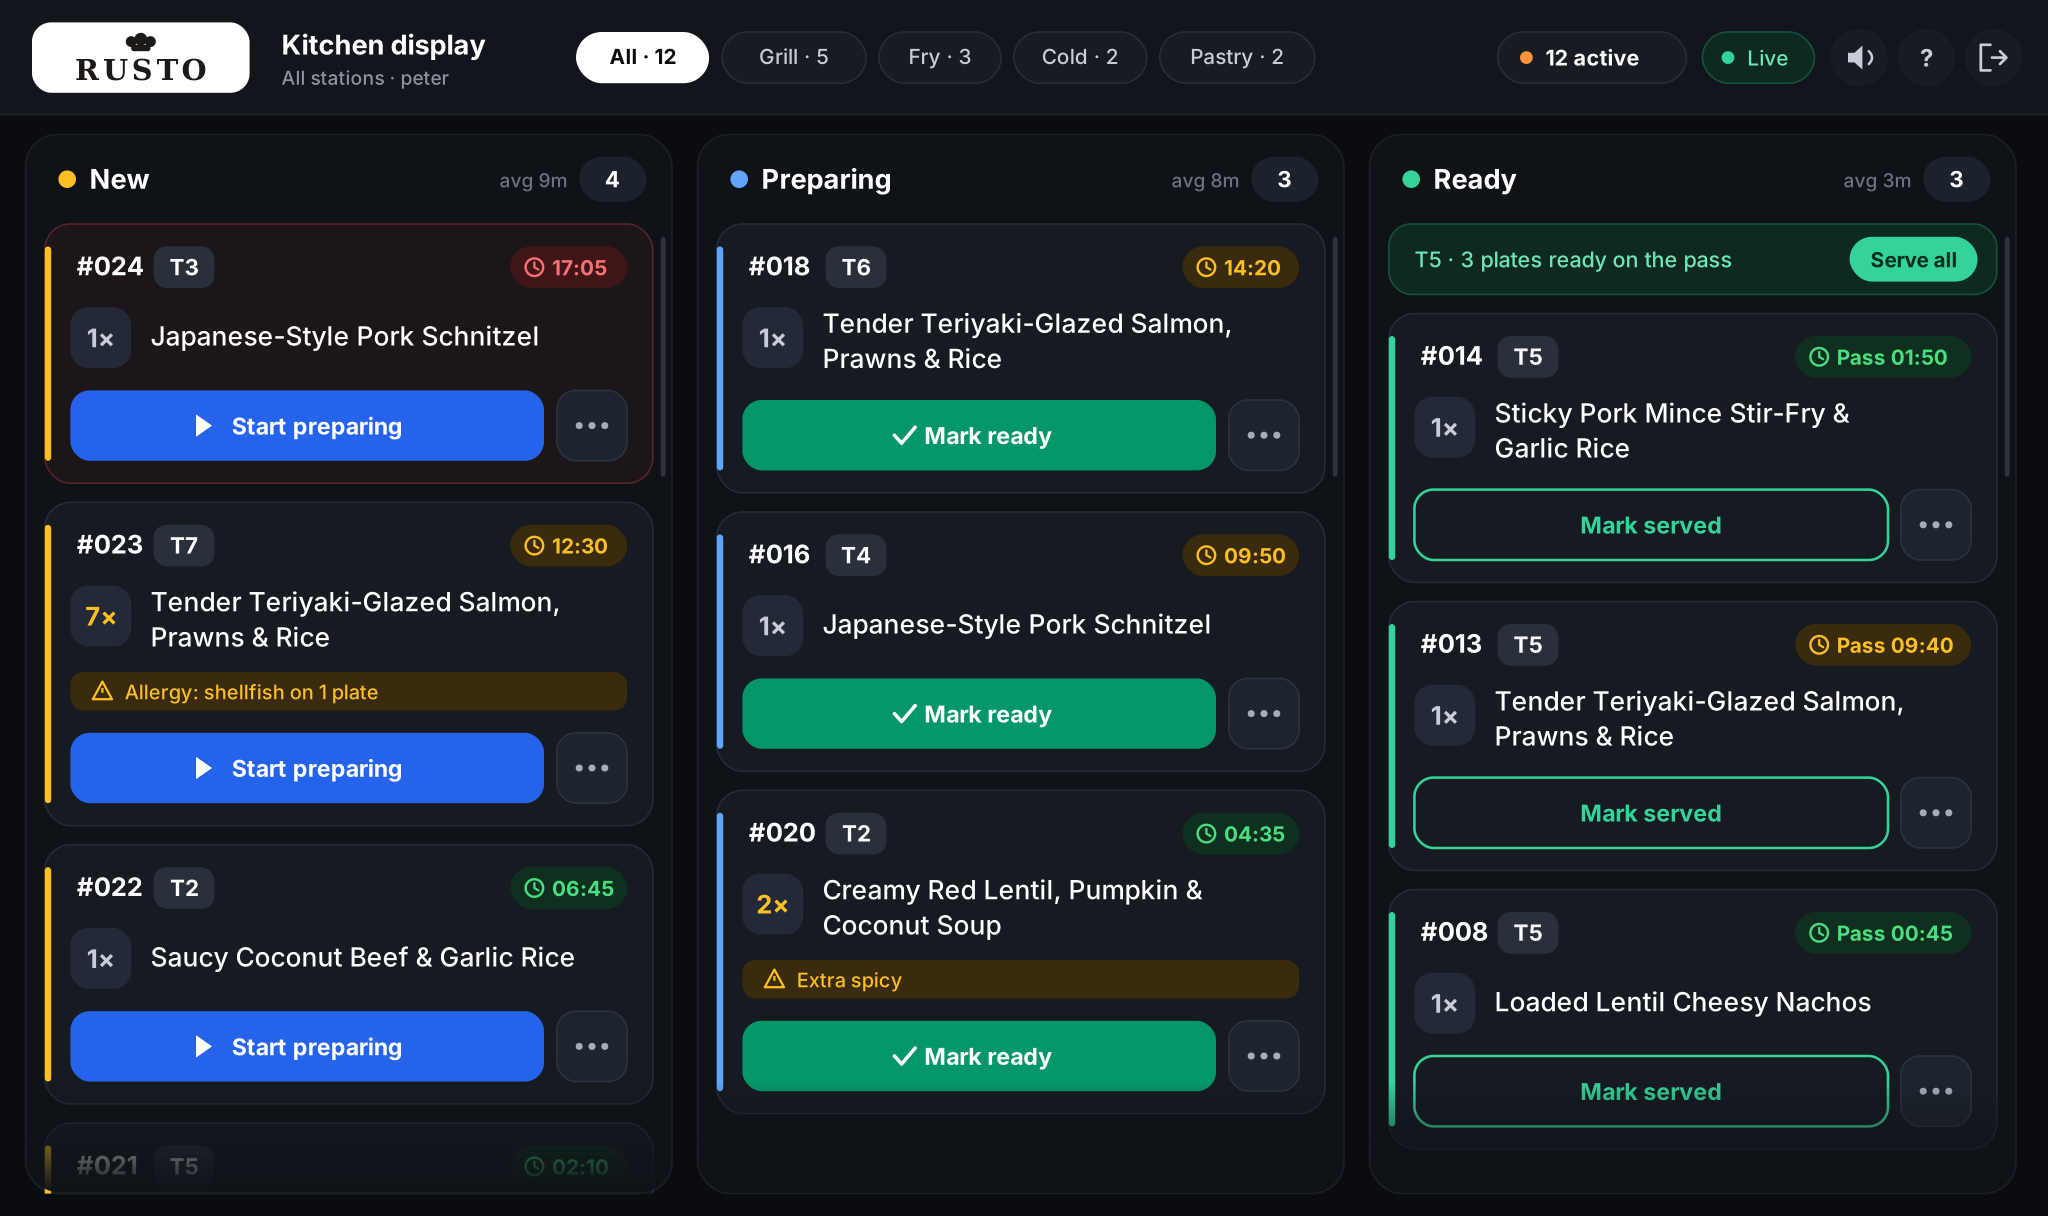
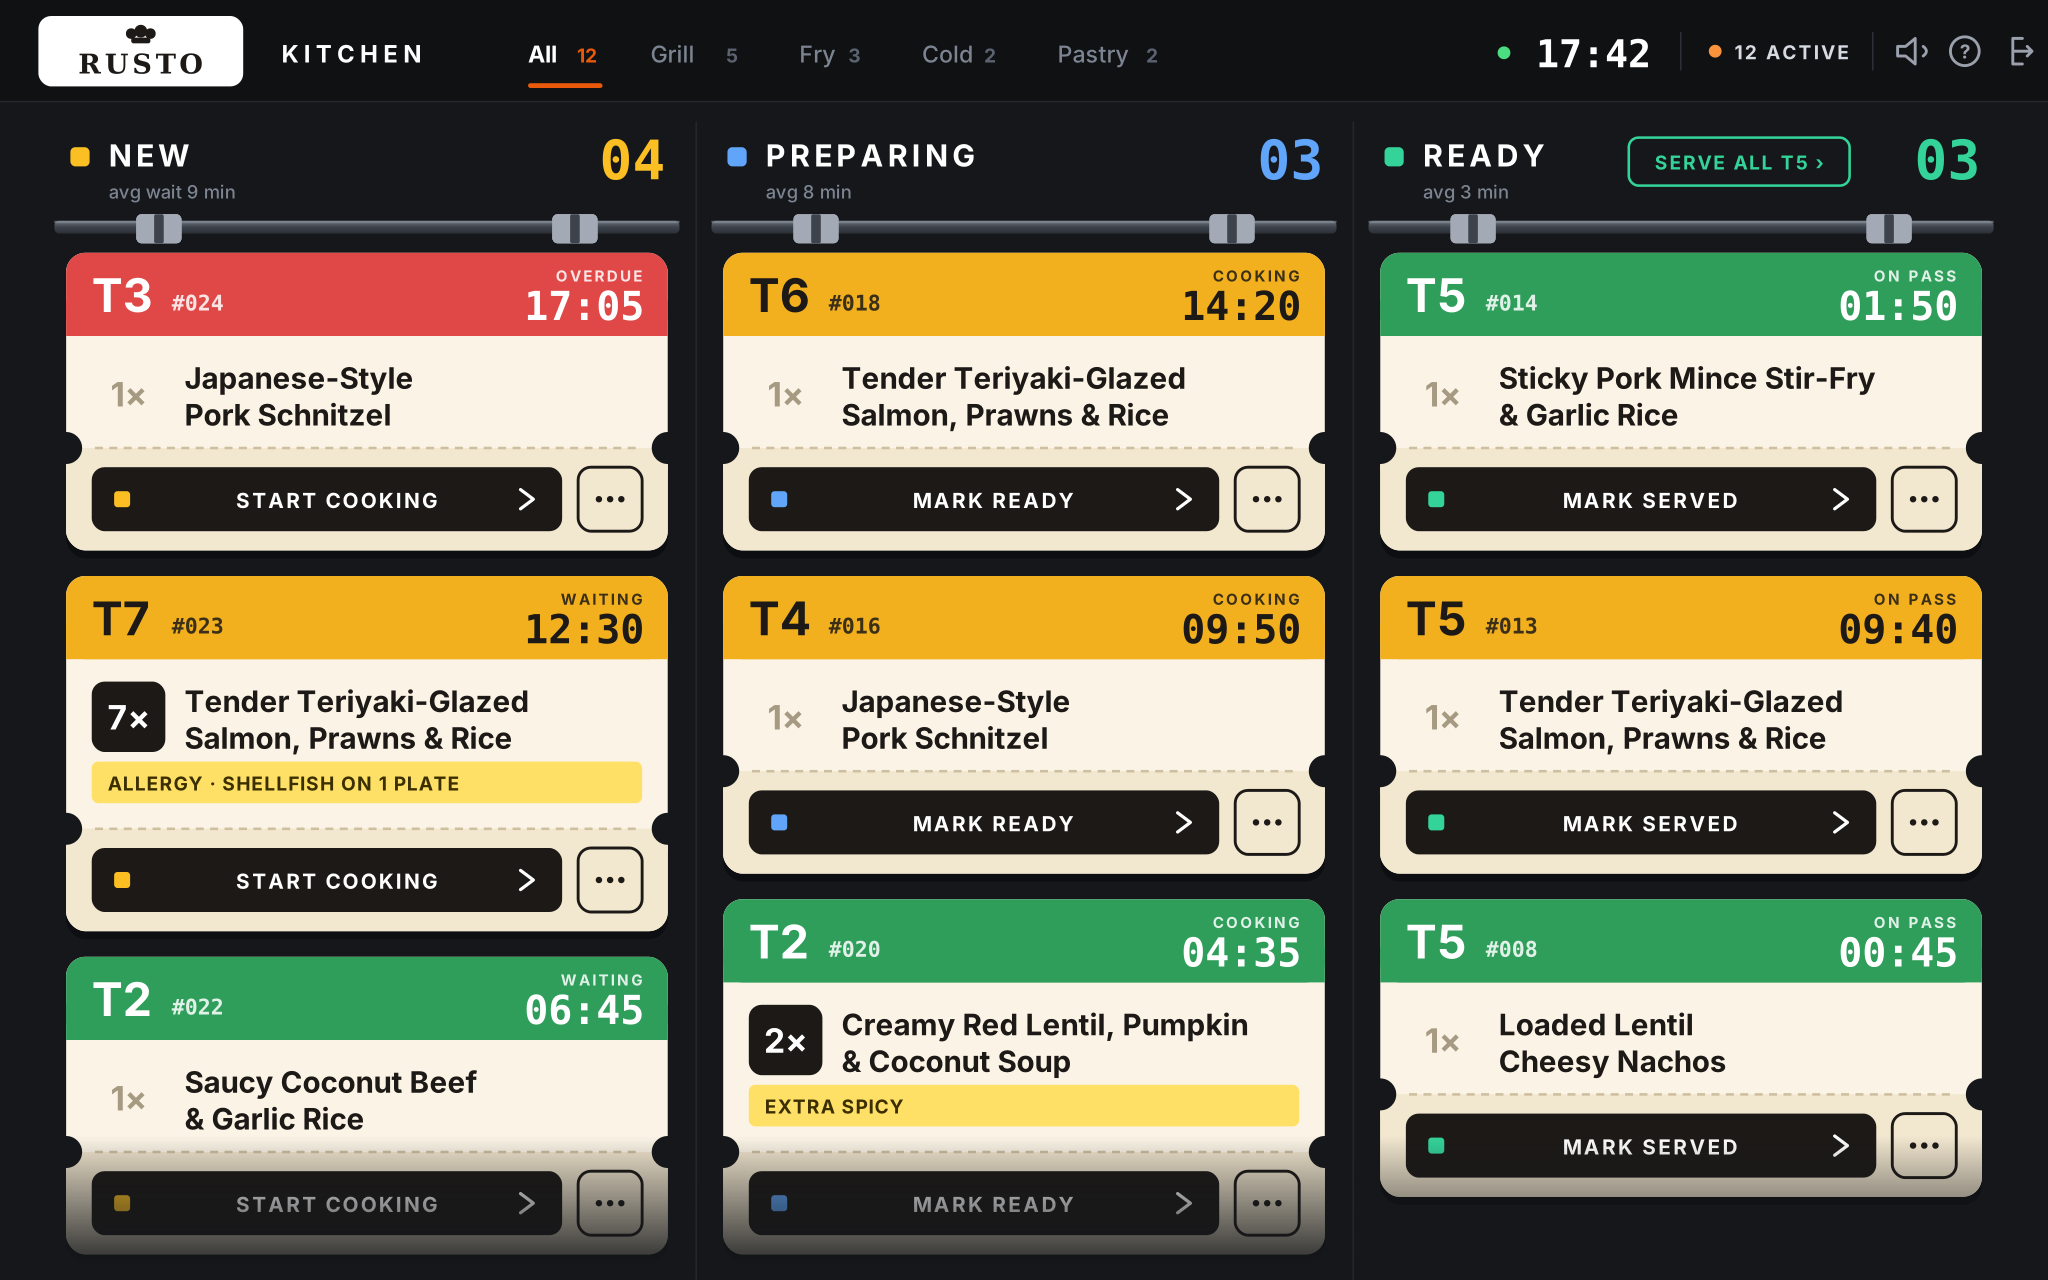
Improve kitchen display workflow

diff --git a/src/pages/kitchen/KitchenDisplay.tsx b/src/pages/kitchen/KitchenDisplay.tsx
@@ -66,6 +66,7 @@ export default function KitchenDisplay() {
   const [tableNumbers, setTableNumbers] = useState<TableMap>({})
   const [soundOn, setSoundOn] = useState(true)
   const [connected, setConnected] = useState(true)
+  const [lastSyncAt, setLastSyncAt] = useState(() => new Date())
   const [confirmCancel, setConfirmCancel] = useState<Order | null>(null)
   const [cancelling, setCancelling] = useState(false)
   const [progressing, setProgressing] = useState<Record<string, boolean>>({})
@@ -111,6 +112,7 @@ export default function KitchenDisplay() {
 
   // ── New order chime ───────────────────────────────────────────
   useEffect(() => {
+    setLastSyncAt(new Date())
     const current = orders.filter(o => o.status === 'new').length
     if (current > prevNewCount.current && soundOn) playChime()
     prevNewCount.current = current
@@ -166,7 +168,10 @@ export default function KitchenDisplay() {
   }
 
   // #8: track connection drops
-  useTableRealtime('orders', 'venue_id', staff?.venue_id ?? undefined, () => setConnected(true))
+  useTableRealtime('orders', 'venue_id', staff?.venue_id ?? undefined, () => {
+    setConnected(true)
+    setLastSyncAt(new Date())
+  })
 
   // ── Progress handler ──────────────────────────────────────────
   const handleProgress = useCallback(async (order: Order) => {
@@ -226,7 +231,14 @@ export default function KitchenDisplay() {
   const columnOrders = (status: OrderStatus) =>
     visibleOrders
       .filter(o => o.status === status)
-      .sort((a, b) => new Date(a.placed_at).getTime() - new Date(b.placed_at).getTime())
+      .sort((a, b) => {
+        const aElapsed = Date.now() - new Date(a.placed_at).getTime()
+        const bElapsed = Date.now() - new Date(b.placed_at).getTime()
+        const aOverdue = status !== 'ready' && aElapsed >= 12 * 60 * 1000
+        const bOverdue = status !== 'ready' && bElapsed >= 12 * 60 * 1000
+        if (aOverdue !== bOverdue) return aOverdue ? -1 : 1
+        return aElapsed - bElapsed
+      })
 
   // #9: count active orders per station
   const orderCountByStation = (stationId: string) =>
@@ -351,6 +363,9 @@ export default function KitchenDisplay() {
             className={cn('p-2 rounded-lg', connected ? 'text-emerald-400' : 'text-red-400')}>
             {connected ? <Wifi size={16} /> : <WifiOff size={16} />}
           </div>
+          <span className="hidden lg:inline text-[10px] text-gray-500">
+            Synced {formatTime(lastSyncAt.toISOString())}
+          </span>
           <button onClick={signOut} className="p-2 rounded-lg text-gray-500 hover:bg-gray-800">
             <LogOut size={16} />
           </button>
@@ -603,7 +618,12 @@ function OrderCard({
     : undefined
 
   // #5: per-line item done tracking (station-filtered view only)
-  const [lineDone, setLineDone] = useState<Set<string>>(new Set())
+  const [lineDone, setLineDone] = useState<Set<string>>(
+    () => new Set(visibleItems.filter(item => item.line_status === 'ready').map(item => item.id))
+  )
+  useEffect(() => {
+    setLineDone(new Set(visibleItems.filter(item => item.line_status === 'ready').map(item => item.id)))
+  }, [order.id, activeStationId, order.items])
   const allLinesDone = visibleItems.length > 0 && visibleItems.every(i => lineDone.has(i.id))
 
   const handleLineToggle = async (item: OrderItem) => {
@@ -647,12 +667,12 @@ function OrderCard({
 
       {/* Card header */}
       <div className="flex items-center justify-between px-3 pt-2.5 pb-1.5">
-        <div className="flex items-center gap-2">
-          <span className="font-bold text-white text-sm font-mono tracking-wide">
-            {order.order_number}
-          </span>
-          <span className="text-xs text-gray-400 bg-gray-800 rounded px-1.5 py-0.5">
+        <div className="flex items-center gap-2 min-w-0">
+          <span className="font-black text-white text-base font-mono tracking-wide shrink-0">
             T{tableNumber ?? '?'}
+          </span>
+          <span className="text-xs text-gray-400 bg-gray-800 rounded px-1.5 py-0.5 font-mono truncate">
+            Ticket {order.order_number}
           </span>
           {isWaiterOrder && (
             <span className="inline-flex items-center gap-0.5 text-[10px] bg-purple-900/60 text-purple-300 border border-purple-700/50 rounded px-1.5 py-0.5">
@@ -661,7 +681,7 @@ function OrderCard({
           )}
         </div>
         <div className="flex items-center gap-1.5">
-          {/* #4: MM:SS timer */}
+          {/* Explicitly label the duration so it is not confused with clock time. */}
           <span className={cn(
             'flex items-center gap-0.5 text-xs font-mono font-bold rounded px-1.5 py-0.5',
             isUrgent
@@ -669,7 +689,8 @@ function OrderCard({
               : 'text-gray-500 bg-gray-800'
           )}>
             <Clock size={10} />
-            {elapsedMins}:{String(elapsedRemSec).padStart(2, '0')}
+            {isUrgent && <span className="text-[9px] uppercase mr-0.5">Overdue</span>}
+            <span>Elapsed {elapsedMins}:{String(elapsedRemSec).padStart(2, '0')}</span>
           </span>
           {/* #4: countdown to urgent — only show when not yet urgent and < 3 min away */}
           {!isUrgent && urgencySecondsLeft > 0 && urgencySecondsLeft <= 180 && (
